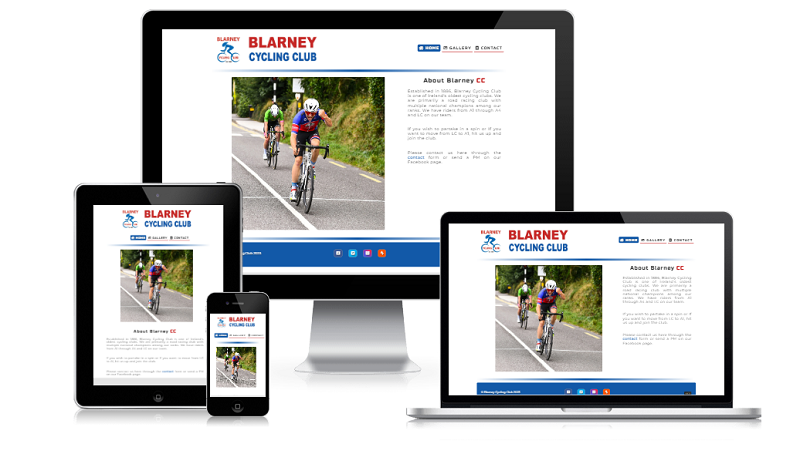
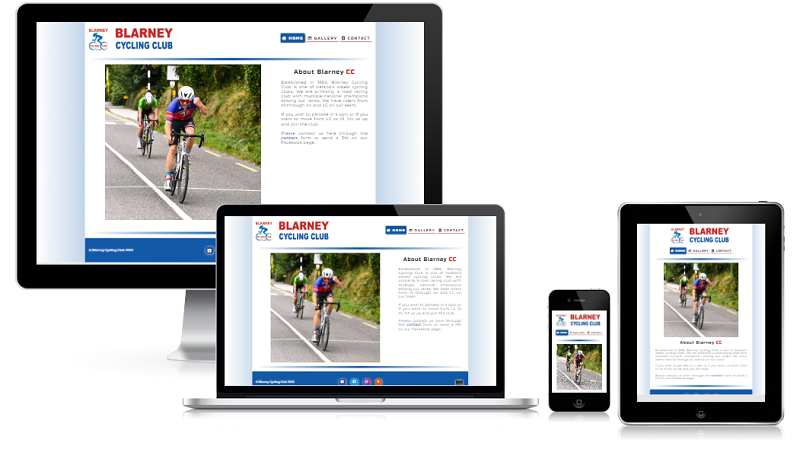
small tweaks + readme.md updated

diff --git a/assets/css/style.css b/assets/css/style.css
@@ -279,13 +279,11 @@ footer a {
 #contact-grid {
     margin: 1rem;
     gap: 2rem;
-    /* box-sizing: border-box; */
     grid-column: 1 / 4;
     grid-row: 3 / 5;
     display: grid;
     --num-cols: 2;
     grid-template-columns: repeat(var(--num-cols),1fr);
-    /* grid-auto-rows: 1fr 1fr; */
     grid-auto-rows: min-content;
     text-align: center;
     letter-spacing: 1px;
@@ -312,6 +310,8 @@ footer a {
     position: relative;
     box-shadow: 0 0 5px 3px lightblue;
     border-radius: 10px;
+    font-family: Montserrat, sans-serif;
+    letter-spacing: 2px;
 }
 
 input {
@@ -320,9 +320,11 @@ input {
     position: relative;
     width: 90%;
     margin: 1rem;
-    line-height: 1.5rem;
+    line-height: 1.9rem;
     box-shadow: 2px 2px #bcbcbc;
     padding: 0 0.5rem;
+    font-size: inherit;
+    letter-spacing: inherit;
   }
 
 label {
@@ -330,6 +332,10 @@ label {
     z-index: 1;
     left: 17%;
     background-color: white;
+}
+
+label > span {
+    font-size: 10px;
 }
 
 textarea {
@@ -342,7 +348,8 @@ textarea {
     line-height: 1.2rem;
     box-shadow: 2px 2px 5px 2px #bcbcbc;
     resize: none;
-    font-family: Montserrat, sans-serif;
+    font-size: 1rem;
+    letter-spacing: inherit;
 }
 
 button {
@@ -384,7 +391,6 @@ button:hover {
     grid-column: 2;
     grid-row: 1 / 2;
     border-radius: 10px;
-    /* height: 25rem; */
     padding: 1rem 10%;
     box-shadow: 0 0 2px 2px lightblue;
 }
@@ -394,7 +400,6 @@ button:hover {
 .map {
     grid-column: 2;
     grid-row: 2 / 3;
-    /* height: 15rem; */
     overflow: hidden;
     padding: 0;
     box-shadow: 0 0 2px 2px lightblue;
@@ -412,8 +417,6 @@ button:hover {
 .main-container .confirmation {
     grid-column: 1 / 4;
     grid-row: 3 / 5;
-    /* grid-template-rows: 1fr 1fr;
-    min-height: 65vh; */
     padding: 10rem 0;
     text-align: center;
     letter-spacing: 2px;
@@ -434,7 +437,6 @@ button:hover {
 }
 
 .nb {
-    /* grid-column: 1 / 4; */
     text-align: center;
     font-weight: 600;
     font-size: 0.7rem;

diff --git a/contact.html b/contact.html
@@ -32,19 +32,19 @@
             <div id="contact-grid">
                 <form method="get" action="confirmation.html" class="form">
                     <h2 class="contact-us">Contact us <span><i class="fas fa-envelope"></i></span></h2>
-                    <label for="fname"><span><i class="fas fa-asterisk"></i></span> First Name:</label>
+                    <label for="fname"> First Name: <span><i class="fas fa-asterisk"></i></span></label>
                     <input class="fname" id="fname" type="text" placeholder="" required>
                     <br>
-                    <label for="lname"><span><i class="fas fa-asterisk"></i></span> Last Name:</label>
+                    <label for="lname"> Last Name: <span><i class="fas fa-asterisk"></i></span></label>
                     <input class="lname" id="lname" type="text" placeholder="" required>
                     <br>
                     <label for="pnumber">Phone number:</label>
-                    <input class="pnumber" id="pnumber" type="tel" placeholder="Optional">
+                    <input class="pnumber" id="pnumber" type="tel" placeholder="">
                     <br>
-                    <label for="email"><span><i class="fas fa-asterisk"></i></span> Email:</label>
+                    <label for="email"> Email: <span><i class="fas fa-asterisk"></i></span></label>
                     <input class="email" id="email" type="email" placeholder="" required>
                     <br>
-                    <label for="textarea"><span><i class="fas fa-asterisk"></i></span> Your message:</label>
+                    <label for="textarea"> Your message: <span><i class="fas fa-asterisk"></i></span></label>
                     <textarea class="textarea" id="textarea" placeholder="" rows="10" cols="35" required></textarea>
                     <br>
                     <button type="submit">Submit</button>

diff --git a/README.md b/README.md
@@ -112,7 +112,8 @@ Contact Page
   <li><a href="https://imagecolorpicker.com/" target="_blank">imagecolorpicker.com</a> free online tool to pick the colors from original logo.</li>
   <li><a href="https://fonts.google.com/" target="_blank">Google Fonts</a> was used to import the fonts</li>
   <li><a href="https://fontjoy.com/" target="_blank">Font Joy</a> for font pairing.</li>
-  <li><a href="https://www.grammarly.com/" target="_blank">Grammarly</a>Grammarly was used to double check spelling mistakes.</li>
+  <li><a href="https://www.grammarly.com/" target="_blank"> Grammarly</a>Grammarly was used to double check spelling mistakes.</li>
+  <li><a href="https://www.createmockup.com/" target="_blank">Createmockups.com</a> Responsive website mockup screenshot generator.</li>
 
 
 ## Features 
